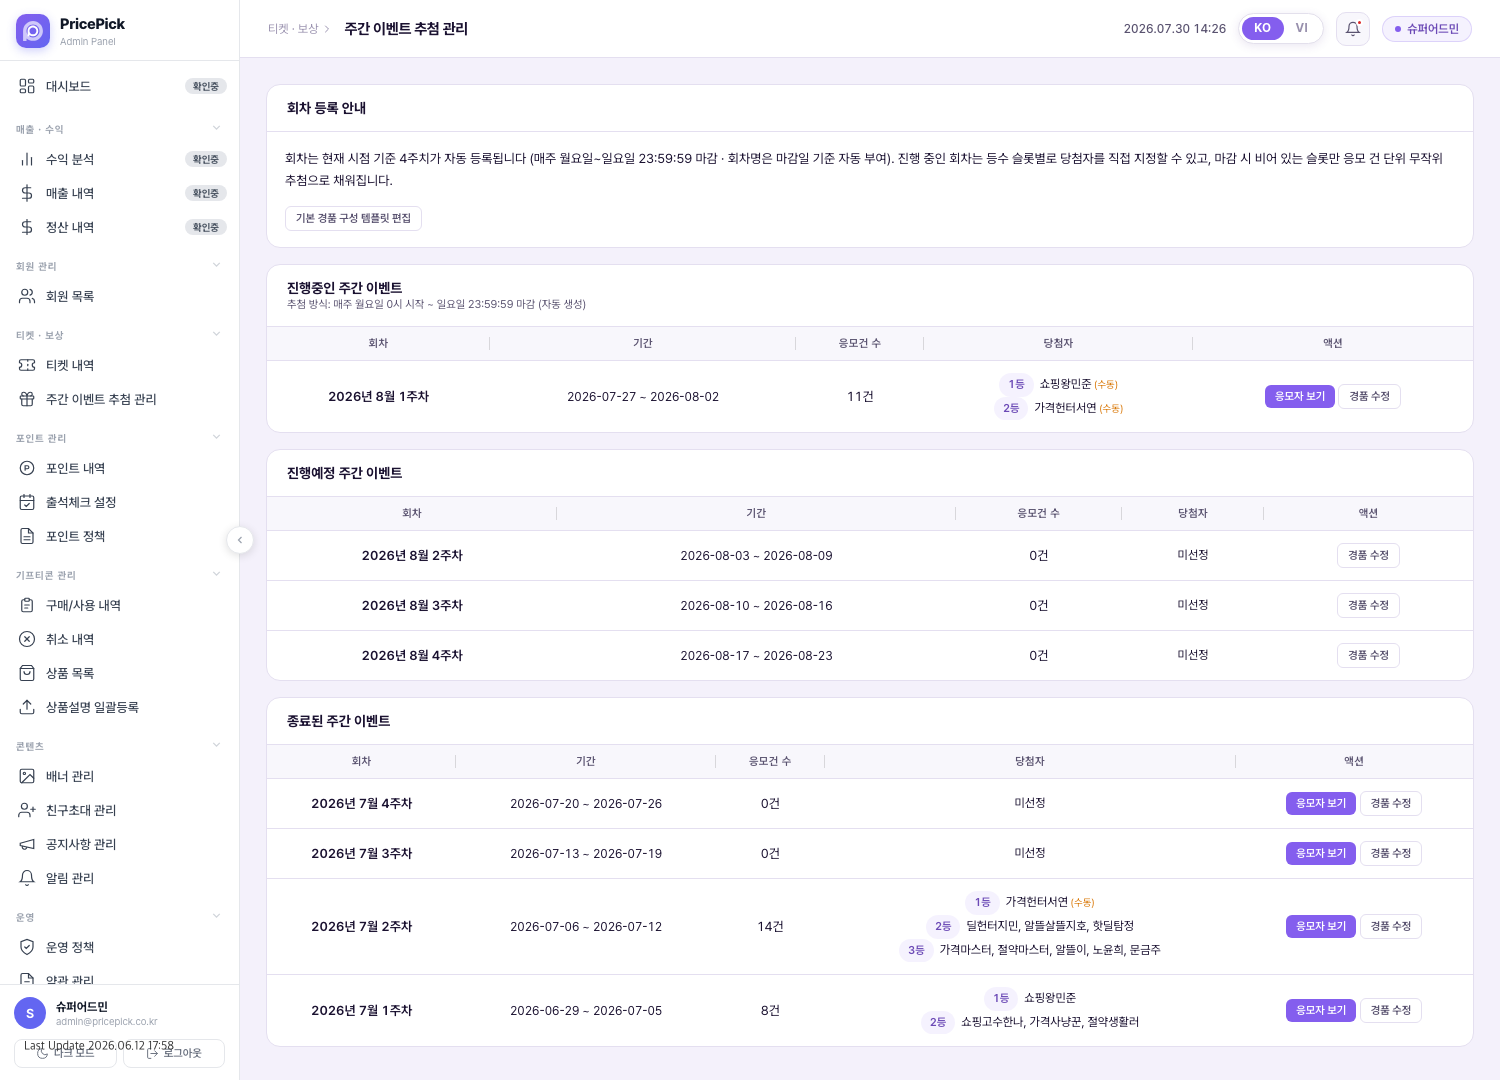
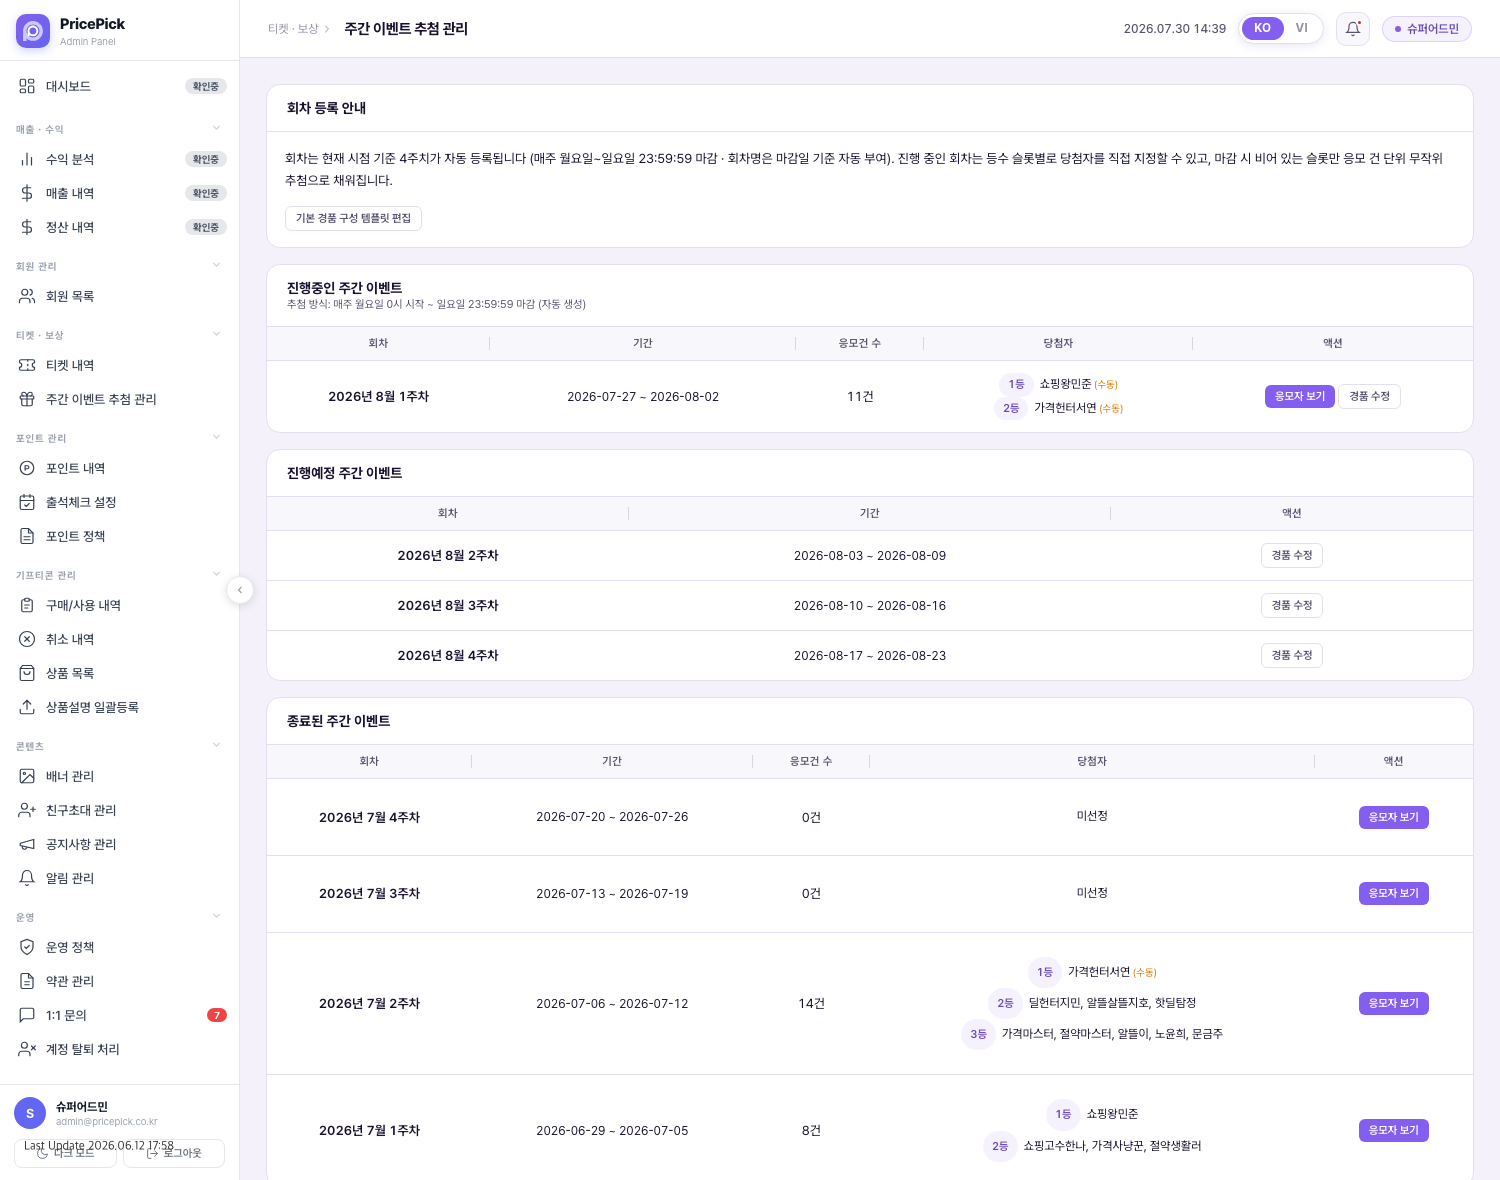
회차 리스트 3구역 정리(CMS 원본) + 설명서 반영: 진행예정 컬럼 축소 · 종료 경품수정 차단 · 행 여백 1.5배
- cms.html: 데모와 동일 이식.
  · 진행예정 구역 "응모건 수"·"당첨자" 컬럼 제거 → 회차·기간·액션 3칸(30/40/30%), 빈 상태 colspan 3.
  · 종료 회차 "경품 수정" 버튼 제거 + ppDrawIsClosed()로 ppOpenDrawModal·ppSubmitDraw 양쪽 차단
    (버튼만 숨기면 콘솔 우회가 되고, 모달을 열어둔 채 마감되는 경우도 저장 시점에 재확인해 막는다).
    차단 토스트 KO/VI 사전 추가.
  · 종료 구역 행 높이 1.5배 — 패딩 24px + 당첨자 줄간격 2.3(3줄 행 96px → 143px, 실측 1.49배).
    패딩만 1.5배로는 1.29배밖에 안 되는 걸 실측으로 확인하고 값을 잡았다.
- 설명서: 3구역 표에 구역별 액션과 진행예정 컬럼 축소·종료 행 높이 1.5배를 명시하고, 4절에
  "경품 수정은 진행중·진행예정만, 종료 회차는 열기·저장 두 지점에서 차단" 서술 추가(KO/VI).
  회차 리스트 캡처 KO/VI 재촬영.

액션 구성 — 진행중: 응모자 보기 + 경품 수정 / 진행예정: 경품 수정 / 종료: 응모자 보기

병렬 세션의 응모자 리스트 모달 변경(중앙 정렬·행 높이 1.3배)은 stash → pull → pop으로 합쳐
양쪽 다 살아있는 것을 확인했다.

diff --git a/cms-storyboard/weekly-draws.html b/cms-storyboard/weekly-draws.html
@@ -81,15 +81,15 @@ code{font-family:'SF Mono',Menlo,monospace;font-size:11.5px;background:var(--bg)
 <p><span class="i18n"><span class="ko">회차 리스트는 상태별로 3개 구역으로 나뉜다.</span><span class="vi">Danh sách đợt được chia thành 3 khu vực theo trạng thái.</span></span></p>
 <table>
   <tr><th style="width:170px"><span class="i18n"><span class="ko">구역</span><span class="vi">Khu vực</span></span></th><th><span class="i18n"><span class="ko">내용</span><span class="vi">Nội dung</span></span></th></tr>
-  <tr><td><b><span class="i18n"><span class="ko">진행중인 주간 이벤트</span><span class="vi">Sự kiện tuần đang diễn ra</span></span></b></td><td><span class="i18n"><span class="ko">오늘이 속한 회차 1개. 항상 리스트 맨 위</span><span class="vi">1 đợt chứa ngày hôm nay. Luôn ở trên cùng danh sách</span></span></td></tr>
-  <tr><td><b><span class="i18n"><span class="ko">진행예정 주간 이벤트</span><span class="vi">Sự kiện tuần sắp diễn ra</span></span></b></td><td><span class="i18n"><span class="ko">아직 시작 전인 이후 회차들(보통 3개). 응모가 아직 0건이라 "응모자 보기" 버튼은 없고 "경품 수정"만 있다</span><span class="vi">Các đợt sau đó chưa bắt đầu (thường 3 đợt). Vì chưa có lượt dự thưởng nào nên không có nút "Xem người dự thưởng", chỉ có "Chỉnh sửa giải thưởng"</span></span></td></tr>
-  <tr><td><b><span class="i18n"><span class="ko">종료된 주간 이벤트</span><span class="vi">Sự kiện tuần đã kết thúc</span></span></b></td><td><span class="i18n"><span class="ko">마감이 지난 회차. 최신 회차가 위로 오도록 정렬</span><span class="vi">Đợt đã qua hạn đóng. Sắp xếp đợt mới nhất lên trên</span></span></td></tr>
+  <tr><td><b><span class="i18n"><span class="ko">진행중인 주간 이벤트</span><span class="vi">Sự kiện tuần đang diễn ra</span></span></b></td><td><span class="i18n"><span class="ko">오늘이 속한 회차 1개. 항상 리스트 맨 위. 액션은 <b>"응모자 보기" + "경품 수정"</b> 둘 다</span><span class="vi">1 đợt chứa ngày hôm nay. Luôn ở trên cùng danh sách. Hành động có <b>cả "Xem người dự thưởng" + "Chỉnh sửa giải thưởng"</b></span></span></td></tr>
+  <tr><td><b><span class="i18n"><span class="ko">진행예정 주간 이벤트</span><span class="vi">Sự kiện tuần sắp diễn ra</span></span></b></td><td><span class="i18n"><span class="ko">아직 시작 전인 이후 회차들(보통 3개). 응모가 아직 0건이라 액션은 <b>"경품 수정"만</b>이고, <b>"응모건 수"·"당첨자" 컬럼도 아예 없다</b>(항상 0건·미선정이라 볼 게 없어서) — 그래서 이 구역만 <b>회차 · 기간 · 액션 3칸</b>이다</span><span class="vi">Các đợt sau đó chưa bắt đầu (thường 3 đợt). Vì chưa có lượt dự thưởng nào nên hành động <b>chỉ có "Chỉnh sửa giải thưởng"</b>, và <b>cũng không có cột "Số lượt dự thưởng"·"Người trúng"</b> (luôn là 0 lượt·chưa chọn nên không có gì để xem) — vì vậy riêng khu vực này chỉ có <b>3 cột: Vòng · Thời gian · Hành động</b></span></span></td></tr>
+  <tr><td><b><span class="i18n"><span class="ko">종료된 주간 이벤트</span><span class="vi">Sự kiện tuần đã kết thúc</span></span></b></td><td><span class="i18n"><span class="ko">마감이 지난 회차. 최신 회차가 위로 오도록 정렬. 이미 확정된 회차라 <b>"경품 수정"이 없고 액션은 "응모자 보기"만</b>이다. 당첨자 명단이 등수별로 여러 줄 들어가므로 <b>행 높이를 다른 구역의 1.5배</b>로 잡아 답답하지 않게 했다</span><span class="vi">Đợt đã qua hạn đóng. Sắp xếp đợt mới nhất lên trên. Vì đợt đã chốt nên <b>không có "Chỉnh sửa giải thưởng", hành động chỉ có "Xem người dự thưởng"</b>. Danh sách người trúng chiếm nhiều dòng theo hạng nên <b>chiều cao dòng được đặt gấp 1,5 lần</b> các khu vực khác cho đỡ chật</span></span></td></tr>
 </table>
 <p><span class="i18n"><span class="ko">각 회차 행의 "응모건 수"는 그 회차에 이벤트 티켓이 쓰인 횟수다(뒤에서 설명하듯 티켓 1장 = 응모 1건이므로, 같은 사람이 여러 장 쓰면 그만큼 건수도 늘어난다). "당첨자"는 당첨자가 확정된 회차에만 등수별로 뜨고, 아직이면 "미선정"으로 표시된다.</span><span class="vi">"Số lượt dự thưởng" ở mỗi dòng đợt là số lần vé sự kiện được dùng trong đợt đó (vé 1 = dự thưởng 1 lượt như giải thích ở phần sau, nên 1 người dùng nhiều vé thì số lượt cũng tăng theo). "Người trúng" chỉ hiện theo hạng ở đợt đã chốt người trúng, còn chưa thì hiện "Chưa chọn".</span></span></p>
 <div class="shot"><img src="img/weekly-draws-01-list-overview.png" alt="회차 리스트 전체 화면 — 3구역"><div class="cap"><span class="i18n"><span class="ko">실측 캡처 — 회차 자동 등록 안내 + 3구역 리스트(2026-07-30, cms.html 기준). 진행예정 구역은 "경품 수정"만 있고 "응모자 보기"가 없다. 진행중 회차 "당첨자" 칸의 <b>"(수동)"</b>은 운영자가 직접 지정한 당첨자다</span><span class="vi">Ảnh chụp thực tế — hướng dẫn đăng ký đợt tự động + danh sách 3 khu vực (2026-07-30, theo cms.html). Khu vực sắp diễn ra chỉ có "Chỉnh sửa giải thưởng", không có "Xem người dự thưởng". Ký hiệu <b>"(thủ công)"</b> ở cột "Người trúng" của đợt đang diễn ra là người trúng do Vận hành viên trực tiếp chỉ định</span></span></div></div>
 
 <h2 class="sec"><span class="i18n"><span class="ko">4. 경품 구성</span><span class="vi">4. Cấu hình quà</span></span></h2>
-<p><span class="i18n"><span class="ko">회차별 "경품 수정" 버튼을 누르면 그 회차의 등수별 경품만 고칠 수 있다. 회차명·기간은 자동 등록 규칙으로 고정돼 있어 이 모달에서 바꿀 수 없다 — 등수, 경품명, 당첨자 수(=그 등수에 몇 명 뽑을지)만 입력한다. 새로 자동 생성되는 회차는 "기본 경품 구성 템플릿"을 그대로 복사해서 만들어지며, 이 템플릿은 화면 상단 "기본 경품 구성 템플릿 편집" 버튼에서 미리 정해둔다. 템플릿을 바꿔도 이미 만들어진 회차에는 영향이 없고, 그 이후 새로 생기는 회차부터 적용된다.</span><span class="vi">Bấm nút "Chỉnh sửa giải thưởng" ở từng đợt để chỉ sửa quà theo hạng của đợt đó. Tên đợt·thời gian đã cố định theo quy tắc đăng ký tự động nên không sửa được trong modal này — chỉ nhập hạng, tên quà, số người trúng (=chọn bao nhiêu người ở hạng đó). Đợt mới được tạo tự động sẽ sao chép nguyên "Mẫu cấu hình quà mặc định", mẫu này được đặt trước ở nút "Sửa mẫu cấu hình quà mặc định" phía trên màn hình. Đổi mẫu không ảnh hưởng đợt đã tạo, chỉ áp dụng cho đợt tạo sau đó.</span></span></p>
+<p><span class="i18n"><span class="ko">회차별 "경품 수정" 버튼을 누르면 그 회차의 등수별 경품만 고칠 수 있다. 이 버튼은 <b>진행중·진행예정 회차에만</b> 있다 — <b>종료된 회차는 당첨자까지 확정된 상태라 경품을 수정할 수 없고</b>, 버튼을 숨기는 것과 별개로 열기·저장 두 지점에서 모두 막아 우회 진입도 되지 않는다("종료된 회차는 경품을 수정할 수 없습니다."). 회차명·기간은 자동 등록 규칙으로 고정돼 있어 이 모달에서 바꿀 수 없다 — 등수, 경품명, 당첨자 수(=그 등수에 몇 명 뽑을지)만 입력한다. 새로 자동 생성되는 회차는 "기본 경품 구성 템플릿"을 그대로 복사해서 만들어지며, 이 템플릿은 화면 상단 "기본 경품 구성 템플릿 편집" 버튼에서 미리 정해둔다. 템플릿을 바꿔도 이미 만들어진 회차에는 영향이 없고, 그 이후 새로 생기는 회차부터 적용된다.</span><span class="vi">Bấm nút "Chỉnh sửa giải thưởng" ở từng đợt để chỉ sửa quà theo hạng của đợt đó. Nút này <b>chỉ có ở đợt đang diễn ra·sắp diễn ra</b> — <b>đợt đã kết thúc thì người trúng cũng đã chốt nên không sửa được quà</b>, và ngoài việc ẩn nút thì cả lúc mở và lúc lưu đều bị chặn nên không thể vào bằng đường vòng ("Đợt đã kết thúc thì không thể sửa giải thưởng."). Tên đợt·thời gian đã cố định theo quy tắc đăng ký tự động nên không sửa được trong modal này — chỉ nhập hạng, tên quà, số người trúng (=chọn bao nhiêu người ở hạng đó). Đợt mới được tạo tự động sẽ sao chép nguyên "Mẫu cấu hình quà mặc định", mẫu này được đặt trước ở nút "Sửa mẫu cấu hình quà mặc định" phía trên màn hình. Đổi mẫu không ảnh hưởng đợt đã tạo, chỉ áp dụng cho đợt tạo sau đó.</span></span></p>
 <div class="shotrow">
 <div class="shot"><img src="img/weekly-draws-04-prize-edit-modal.png" alt="경품 수정 모달"><div class="cap"><span class="i18n"><span class="ko">경품 수정 — 등수별 구성만</span><span class="vi">Chỉnh sửa giải thưởng — chỉ cấu hình theo hạng</span></span></div></div>
 <div class="shot"><img src="img/weekly-draws-05-template-modal.png" alt="기본 경품 구성 템플릿 모달"><div class="cap"><span class="i18n"><span class="ko">기본 경품 구성 템플릿</span><span class="vi">Mẫu cấu hình quà mặc định</span></span></div></div>

diff --git a/cms.html b/cms.html
@@ -494,6 +494,11 @@ body.dark .member-type-apple::before{background:#E5E7EB;}
 /* ── 응모자 리스트 모달 — 한 페이지 10건이 모달 내부 스크롤 없이 다 보이도록 행 밀도 압축 ──
    글자 크기는 그대로 두고 셀 패딩·줄간격·모달 여백만 줄였다. 지급 메모는 뱃지와 같은 줄에
    한 줄 입력으로 붙여 당첨 행 높이를 미당첨 행과 같게 맞춘다(기존엔 메모칸이 아래로 펼쳐져 2배). */
+/* 종료된 주간 이벤트 — 당첨자 명단이 등수별 여러 줄로 들어가 행이 빠듯해 보이므로 행 높이를 1.5배로.
+   패딩만 1.5배(18px)로는 실측 1.29배밖에 안 됐다(등수 뱃지 박스 높이가 줄 높이를 지배해서).
+   패딩 24px + 당첨자 줄간격 2.3 조합으로 3줄 행이 96px → 143px(약 1.49배)이 되는 값을 실측으로 잡았다.
+   진행중·진행예정 표는 그대로 둔다. */
+#draws-table-past td{padding-top:24px;padding-bottom:24px;}
 #pd-entrants-ov .info-box{padding:6px 12px;margin-bottom:0;line-height:1.45;}
 #pd-ent-table th{padding:6px 8px;}
 #pd-ent-table td{padding:5px 8px;line-height:1.35;vertical-align:middle;}
@@ -1313,14 +1318,15 @@ tr.manual-edited td { background:rgba(254,243,199,0.15); }
       </div>
       <div class="card" style="margin-top:14px">
         <div class="card-header"><div class="card-title">진행예정 주간 이벤트</div></div>
-        <table>
-          <thead><tr><th>회차</th><th>기간</th><th>응모건 수</th><th>당첨자</th><th>액션</th></tr></thead>
+        <!-- 진행예정 회차는 응모건 수가 항상 0건, 당첨자는 항상 미선정이라 두 컬럼을 두지 않는다 -->
+        <table id="draws-table-upcoming" style="table-layout:fixed;width:100%">
+          <thead><tr><th style="width:30%">회차</th><th style="width:40%">기간</th><th style="width:30%">액션</th></tr></thead>
           <tbody id="draws-tbody-upcoming"></tbody>
         </table>
       </div>
       <div class="card" style="margin-top:14px">
         <div class="card-header"><div class="card-title">종료된 주간 이벤트</div></div>
-        <table>
+        <table id="draws-table-past">
           <thead><tr><th>회차</th><th>기간</th><th>응모건 수</th><th>당첨자</th><th>액션</th></tr></thead>
           <tbody id="draws-tbody-past"></tbody>
         </table>
@@ -4303,16 +4309,30 @@ function loadDraws() {
   function rowHtml(it) {
     var d = it.d;
     var period = (d.start_date||'—') + ' ~ ' + (d.end_date||'—');
+    var isUpcoming = it.phase === 'upcoming';
+    var isPast = it.phase === 'past';
+    /* 액션은 회차 상태별로 다르다 —
+       진행중: 응모자 보기 + 경품 수정 / 진행예정: 경품 수정만(응모 0건이라 볼 게 없음)
+       종료: 응모자 보기만(이미 확정된 회차라 경품을 수정할 수 없다) */
+    var actions = [];
+    if (!isUpcoming) actions.push('<button class="btn btn-primary btn-sm" onclick="pdOpenEntrantsModal(\'' + d.id + '\')">응모자 보기</button>');
+    if (!isPast) actions.push('<button class="btn btn-ghost btn-sm" onclick="ppOpenDrawModal(\'' + d.id + '\')">경품 수정</button>');
+    /* 진행예정 회차는 응모건 수·당첨자가 항상 0건·미선정이라 그 두 칸을 아예 두지 않는다(회차·기간·액션 3칸) */
+    if (isUpcoming) {
+      return '<tr>'
+        + '<td style="font-weight:600">' + pdWeekLabel(d.end_date) + '</td>'
+        + '<td style="font-size:12px">' + period + '</td>'
+        + '<td>' + actions.join(' ') + '</td></tr>';
+    }
     var winnerCell = it.hasWinners ? pdWinnerSummary(d.winners_confirmed) : '<span style="color:var(--text-sub)">미선정</span>';
-    /* 진행예정 회차는 아직 응모가 0건이라 볼 게 없으므로 "응모자 보기"를 아예 노출하지 않는다 */
-    var actionCell = (it.phase === 'upcoming' ? '' : '<button class="btn btn-primary btn-sm" onclick="pdOpenEntrantsModal(\'' + d.id + '\')">응모자 보기</button> ')
-      + '<button class="btn btn-ghost btn-sm" onclick="ppOpenDrawModal(\'' + d.id + '\')">경품 수정</button>';
+    /* 종료 회차는 당첨자 명단이 등수별로 여러 줄 들어가 답답하므로 줄간격을 넉넉히 준다
+       (행 자체의 위아래 여백은 #draws-table-past CSS에서 1.5배로 키운다) */
     return '<tr>'
       + '<td style="font-weight:600">' + pdWeekLabel(d.end_date) + '</td>'
       + '<td style="font-size:12px">' + period + '</td>'
       + '<td style="text-align:center">' + ppN(it.count) + '<span>건</span></td>'
-      + '<td><div style="font-size:12px;line-height:1.6">' + winnerCell + '</div></td>'
-      + '<td>' + actionCell + '</td></tr>';
+      + '<td><div style="font-size:12px;line-height:' + (isPast ? '2.3' : '1.6') + '">' + winnerCell + '</div></td>'
+      + '<td>' + actions.join(' ') + '</td></tr>';
   }
   var active = items.filter(function(it){ return it.phase === 'active'; });
   var upcoming = items.filter(function(it){ return it.phase === 'upcoming'; })
@@ -4321,7 +4341,7 @@ function loadDraws() {
     .sort(function(a,b){ return (b.d.end_date||'').localeCompare(a.d.end_date||''); });
 
   tbodyActive.innerHTML = active.length ? active.map(rowHtml).join('') : ppEmpty(5,'진행 중인 회차가 없습니다.');
-  tbodyUpcoming.innerHTML = upcoming.length ? upcoming.map(rowHtml).join('') : ppEmpty(5,'예정된 회차가 없습니다.');
+  tbodyUpcoming.innerHTML = upcoming.length ? upcoming.map(rowHtml).join('') : ppEmpty(3,'예정된 회차가 없습니다.');
   tbodyPast.innerHTML = past.length ? past.map(rowHtml).join('') : ppEmpty(5,'종료된 회차가 없습니다.');
 }
 
@@ -4409,8 +4429,16 @@ function ppCollectPrizeRows(containerId) {
 /* addPrizeRow()는 기존 정의(위쪽, prize-rows 전용) 재사용 — 여기서 다시 선언하지 않음 */
 
 /* ── 경품 수정 전용(회차는 4주 롤링 자동 생성만 — 수동 등록 없음. 회차명·기간은 자동 생성 규칙으로 고정이라 편집 불가) */
+/* 종료(마감 지난) 회차인지 — 경품 수정 차단 판정용 */
+function ppDrawIsClosed(id) {
+  var d = ppRaffles.find(function(r){ return r.id === id; });
+  return !!d && pdRoundPhase(d, new Date()) === 'past';
+}
 window.ppOpenDrawModal = function(id) {
   if (!id) return;
+  /* 종료된 회차는 당첨자까지 확정된 상태라 경품 구성을 바꿀 수 없다 — 버튼을 빼는 것과 별개로
+     여기서도 막아 콘솔·구버전 DOM으로 우회 진입하는 경로를 차단한다. */
+  if (ppDrawIsClosed(id)) { toast('종료된 회차는 경품을 수정할 수 없습니다.'); return; }
   ppEditingDrawId = id;
   var titleEl = document.getElementById('draw-modal-title');
   document.getElementById('prize-rows').innerHTML = '';
@@ -4423,6 +4451,8 @@ window.ppOpenDrawModal = function(id) {
 window.ppCloseDrawModal = function() { document.getElementById('draw-create-ov').style.display = 'none'; };
 window.ppSubmitDraw = function() {
   if (!ppEditingDrawId) return;
+  /* 모달을 열어둔 상태로 회차가 마감되는 경우까지 막는다(저장 시점에 재확인) */
+  if (ppDrawIsClosed(ppEditingDrawId)) { toast('종료된 회차는 경품을 수정할 수 없습니다.'); ppCloseDrawModal(); return; }
   var prizes = ppCollectPrizeRows('prize-rows');
   if (!prizes) return;
   var d = ppRaffles.find(function(r){ return r.id === ppEditingDrawId; });
@@ -6306,7 +6336,8 @@ Object.assign(KO2VI,{
 /* 진행 중 회차 지급 관리 비활성(2026-07-30) — 툴팁·안내문구 */
 Object.assign(KO2VI,{
   "회차 종료 후 지급 관리 가능":"Có thể quản lý gửi quà sau khi đợt kết thúc",
-  "지급 상태·메모는 아직 지급이 성립하지 않는 구간이라 표시하지 않습니다 — 회차 종료 후 이 리스트에 함께 나타납니다":"Trạng thái gửi quà·ghi chú không được hiển thị vì chưa tới lúc phát sinh việc gửi quà — sẽ xuất hiện trong danh sách này sau khi đợt kết thúc"
+  "지급 상태·메모는 아직 지급이 성립하지 않는 구간이라 표시하지 않습니다 — 회차 종료 후 이 리스트에 함께 나타납니다":"Trạng thái gửi quà·ghi chú không được hiển thị vì chưa tới lúc phát sinh việc gửi quà — sẽ xuất hiện trong danh sách này sau khi đợt kết thúc",
+  "종료된 회차는 경품을 수정할 수 없습니다.":"Đợt đã kết thúc thì không thể sửa giải thưởng."
 });
 
   var _orig=new Map(), _tracked=new Set(), _applying=false;
